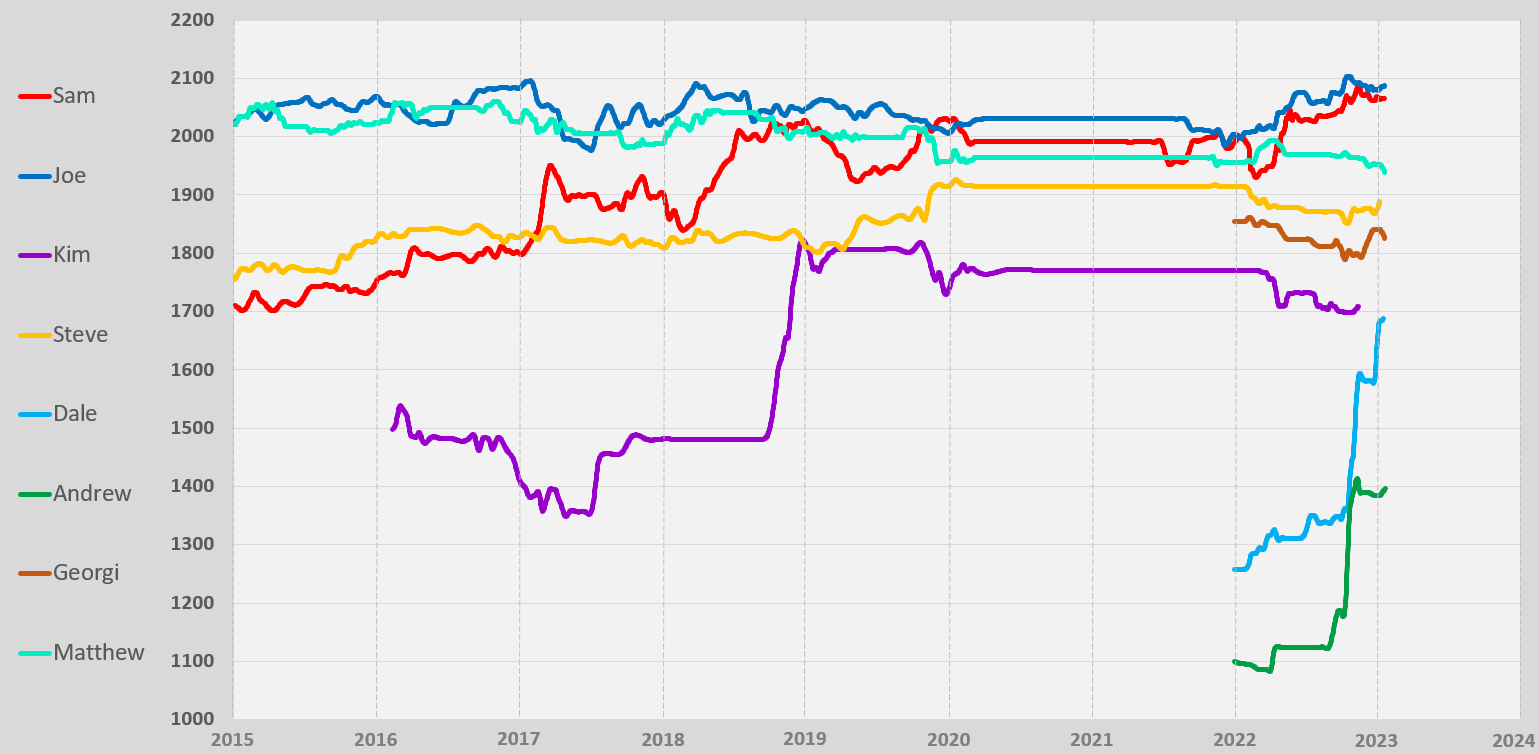
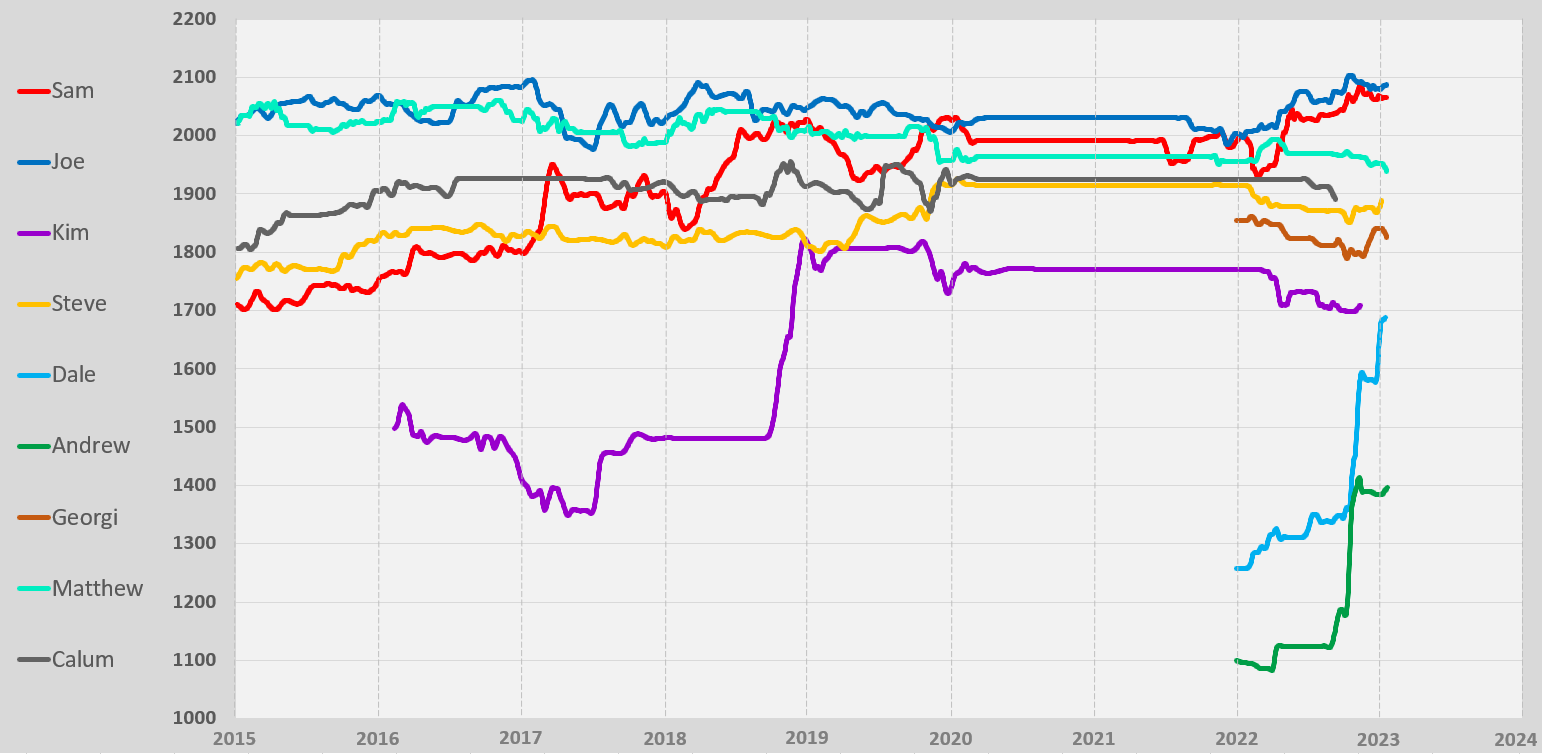
135

diff --git a/Calum Harris.html b/Calum Harris.html
@@ -1,0 +1,68 @@
+<!DOCTYPE html>
+<html>
+    <head>
+    <meta charset="utf-8">
+    <meta name="viewpoint" content="width=device-width,initial-scale=1">
+    <title>Calum Harris </title>
+    <script type="text/javascript" src="https://www.gstatic.com/charts/loader.js"></script>
+    <script type="text/javascript">
+      google.charts.load('current', {'packages':['corechart']});
+      google.charts.setOnLoadCallback(drawChart);
+
+      function drawChart() {
+        var data = google.visualization.arrayToDataTable([
+          ['Game', '2022 Part 1','2022 Part 2'],
+          ['',  1925,1925],
+          ['',  null,1912],
+          ['',  null,1891],
+
+        ]);
+
+        var options = {
+          title: 'Calum Harris',
+          titleTextStyle: {
+            fontSize: 30
+          },
+          vAxis: {
+          format: '####.##'
+          },
+          curveType: 'none',
+          fontSize: 15,
+          lineWidth: 4,
+          pointSize: 8,
+          legend: { position: 'bottom'},
+          series: {
+            0: { color: '#35a7f2' },
+          },
+          backgroundColor: "#ebebeb"
+        };
+
+        var chart = new google.visualization.LineChart(document.getElementById('curve_chart'));
+
+        chart.draw(data, options);
+      }
+    </script>
+    </head>
+    <body style="font-family: sans-serif; background-color:#ebebeb">
+      <h3><a href="https://j-ratings.github.io/J-Ratings/"> Home </a> </h3>
+      <div id="curve_chart" class="chart" style="position: relative; height:600px; width:1100px">
+      </div>
+      <br>
+      <h3>2022 - Part 1 /// E1 = 1925 /// k = 24</h3>
+      <table border="1" style="position: relative; height:10vh; width:95vw">
+        <tr>
+        <th>Date</th><th>Event</th><th>Name</th><th>Result</th><th>Opponent Rating</th><th>New Rating</th>
+        </tr>
+      </table>
+      <br>
+      <h3>2022 - Part 2 /// E1 = 1925 /// k = 24</h3>
+      <table border="1" style="position: relative; height:10vh; width:90vw">
+        <tr>
+        <th>Date</th><th>Event</th><th>Name</th><th>Result</th><th>Opponent Rating</th><th>New Rating</th>
+        </tr>
+        <tr><td>19/07/2022</td><td>League</td><td>David Llewellyn</td><td>0</td><td>1899</td><td>1912</td></tr>
+        <tr><td>07/09/2022</td><td>League</td><td>Krzysztof Jakubiak</td><td>0</td><td>1555</td><td>1891</td></tr>
+              </table>        
+    </body>
+
+</html>

diff --git a/index.html b/index.html
@@ -14,6 +14,7 @@
         <h2>Players</h2>
         
         <a href="https://j-ratings.github.io/J-Ratings/Andrew_Davies">Andrew Davies</a><br>
+        <a href="https://j-ratings.github.io/J-Ratings/Calum_Harris">Calum Harris</a><br>
         <a href="https://j-ratings.github.io/J-Ratings/Dale_Westcott">Dale Westcott</a><br>
         <a href="https://j-ratings.github.io/J-Ratings/Georgi_Korovski">Georgi Korovski</a><br>
         <a href="https://j-ratings.github.io/J-Ratings/Joe_Fathallah">Joe Fathallah</a><br>
